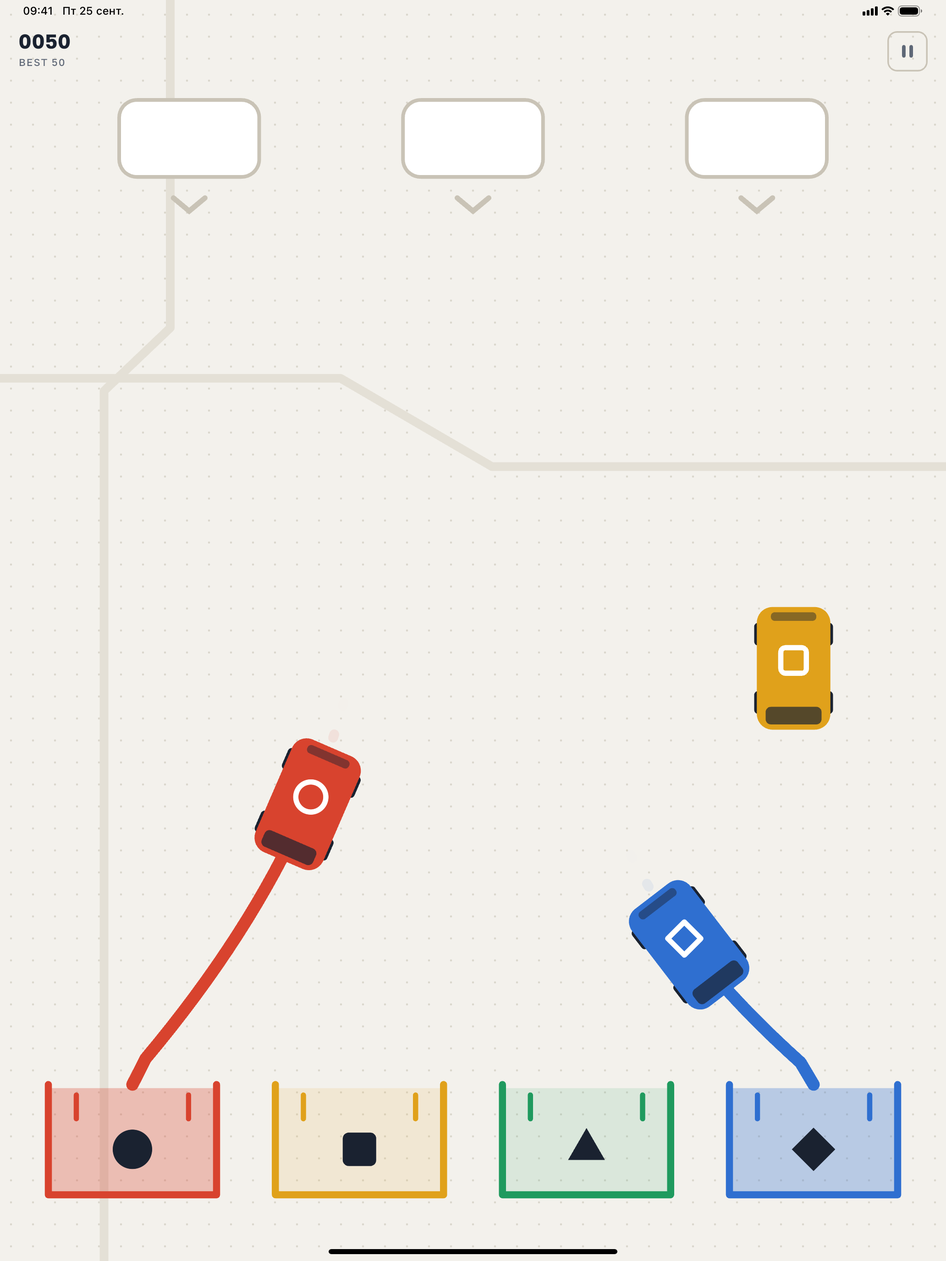
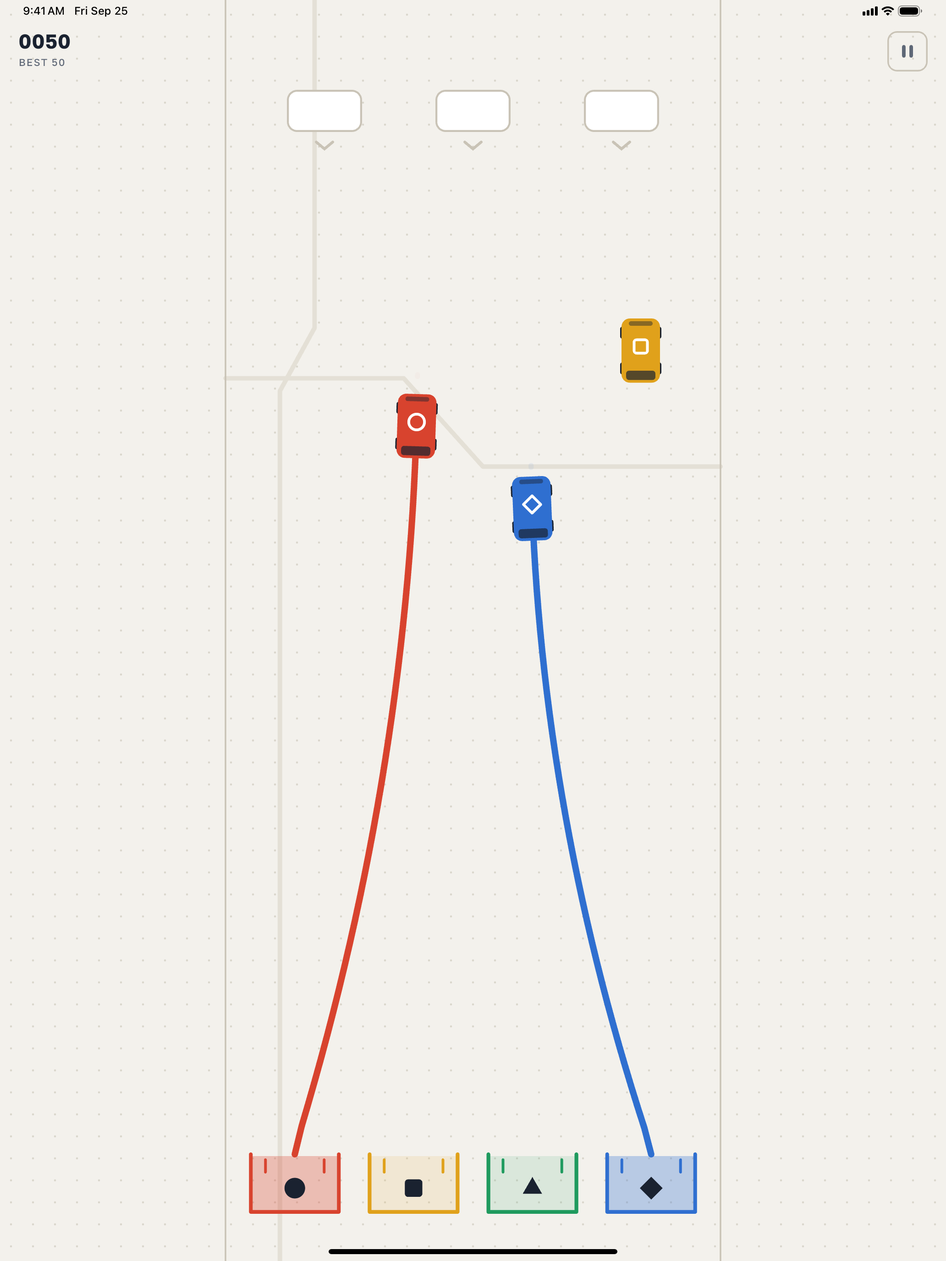
[NO-ISSUE]: Tablet column layout for the field
Zoom is capped at GameTuning.maxZoom (1.5 px per unit): phones keep the
full-width field, tablets get a 540 px column centred in the widget with
phone-sized units and faint column edges drawn by DecorLayer. Public
toField/toCanvas handle the offset; drag callbacks, the smoke test and
the screenshot stager use them. Unit tests for phone and tablet mapping.
iPad store screenshots retaken with the column and an English simulator.

diff --git a/features/lib/game/engine/line_duty_game.dart b/features/lib/game/engine/line_duty_game.dart
@@ -107,7 +107,26 @@ class LineDutyGame extends FlameGame with DragCallbacks {
 
   double get fieldHeight => size.y / _zoom;
 
-  double get _zoom => size.x / AppDimens.fieldWidth;
+  /// Логических px виджета на единицу поля. На телефонах поле занимает всю
+  /// ширину; на планшетах зум упирается в [GameTuning.maxZoom], поле
+  /// становится колонкой по центру (см. [fieldOffset]), а фигуры остаются
+  /// телефонного размера.
+  double get _zoom =>
+      math.min(size.x / AppDimens.fieldWidth, GameTuning.maxZoom);
+
+  /// Сдвиг поля от левого края виджета в единицах поля (0 на телефонах).
+  double get fieldOffset => (size.x / _zoom - fieldWidth) / 2;
+
+  /// Поле уже виджета — колонка по центру, края поля стоит показать.
+  bool get columnMode => fieldOffset > 0.5;
+
+  /// Точка виджета (логические px) → единицы поля.
+  Vector2 toField(Vector2 canvasPosition) =>
+      Vector2(canvasPosition.x / _zoom - fieldOffset, canvasPosition.y / _zoom);
+
+  /// Единицы поля → точка виджета (логические px).
+  Vector2 toCanvas(Vector2 fieldPosition) =>
+      Vector2((fieldPosition.x + fieldOffset) * _zoom, fieldPosition.y * _zoom);
 
   bool get frozen => crashPoint != null;
 
@@ -140,7 +159,7 @@ class LineDutyGame extends FlameGame with DragCallbacks {
   @override
   Future<void> onLoad() async {
     camera.viewfinder.anchor = Anchor.topLeft;
-    camera.viewfinder.position = Vector2.zero();
+    _placeCamera();
     world.add(DecorLayer());
     world.add(RouteLayer());
     world.add(OverlayLayer());
@@ -248,8 +267,15 @@ class LineDutyGame extends FlameGame with DragCallbacks {
   @override
   void onGameResize(Vector2 size) {
     super.onGameResize(size);
-    camera.viewfinder.zoom = _zoom;
+    _placeCamera();
     _layout();
+  }
+
+  /// Камера смотрит на поле из левого верхнего угла; в колонке точка (0, 0)
+  /// поля сдвинута вправо на [fieldOffset].
+  void _placeCamera() {
+    camera.viewfinder.zoom = _zoom;
+    camera.viewfinder.position = Vector2(-fieldOffset, 0);
   }
 
   /// Отступы сверху (HUD + safe area) и снизу (жест-бар) в логических
@@ -599,8 +625,6 @@ class LineDutyGame extends FlameGame with DragCallbacks {
 
   // --- Рисование маршрута ------------------------------------------------
 
-  Vector2 _toField(Vector2 canvasPosition) => canvasPosition / _zoom;
-
   UnitComponent? _pick(Vector2 p) {
     UnitComponent? best;
     double bestD = GameTuning.pickRadius;
@@ -617,7 +641,7 @@ class LineDutyGame extends FlameGame with DragCallbacks {
   @override
   void onDragStart(DragStartEvent event) {
     super.onDragStart(event);
-    routeStart(_toField(event.canvasPosition));
+    routeStart(toField(event.canvasPosition));
   }
 
   @override
@@ -625,7 +649,7 @@ class LineDutyGame extends FlameGame with DragCallbacks {
     super.onDragUpdate(event);
     // Именно start: Flame считает `canvasEndPosition` как позицию + дельту,
     // то есть на шаг впереди настоящего пальца.
-    routeMove(_toField(event.canvasStartPosition));
+    routeMove(toField(event.canvasStartPosition));
   }
 
   @override

diff --git a/features/test/game/line_duty_game_test.dart b/features/test/game/line_duty_game_test.dart
@@ -545,4 +545,26 @@ void main() {
       expect(u.docked?.color, u.color, reason: 'demo routes are docked');
     }
   });
+  group('tablet column', () {
+    test('phone width keeps the full-width field', () {
+      final LineDutyGame g = LineDutyGame()..onGameResize(Vector2(400, 860));
+      expect(g.fieldOffset, 0);
+      expect(g.columnMode, isFalse);
+      expect(g.toField(Vector2(400, 0)).x, closeTo(AppDimens.fieldWidth, 1e-6));
+    });
+
+    test('tablet caps the zoom and centres the field', () {
+      final LineDutyGame g = LineDutyGame()..onGameResize(Vector2(1024, 1366));
+      expect(g.columnMode, isTrue);
+      expect(g.fieldHeight, closeTo(1366 / GameTuning.maxZoom, 1e-6));
+      final double margin =
+          (1024 - AppDimens.fieldWidth * GameTuning.maxZoom) / 2;
+      expect(g.toCanvas(Vector2.zero()).x, closeTo(margin, 1e-6));
+      expect(g.toField(Vector2(512, 100)).x,
+          closeTo(AppDimens.fieldWidth / 2, 1e-6));
+      final Vector2 p = Vector2(123, 456);
+      expect(g.toField(g.toCanvas(p)).x, closeTo(p.x, 1e-6));
+      expect(g.toField(g.toCanvas(p)).y, closeTo(p.y, 1e-6));
+    });
+  });
 }

diff --git a/integration_test/game_smoke_test.dart b/integration_test/game_smoke_test.dart
@@ -81,10 +81,14 @@ void main() {
     debugPrint(
         'SMOKE unit ${unit.color} at ${unit.position}, gate at ${gate.position}');
 
-    // Drag from the unit straight to its gate (screen = field × zoom).
+    // Drag from the unit straight to its gate (field → widget via the game,
+    // so the tablet column offset is honoured too).
     final Rect canvas = tester.getRect(find.byType(GameWidget<LineDutyGame>));
-    final double zoom = canvas.width / AppDimens.fieldWidth;
-    Offset toScreen(Vector2 p) => canvas.topLeft + Offset(p.x, p.y) * zoom;
+    Offset toScreen(Vector2 p) {
+      final Vector2 c = game.toCanvas(p);
+      return canvas.topLeft + Offset(c.x, c.y);
+    }
+
     final Vector2 target = gate.position - Vector2(0, gate.size.y);
     final TestGesture gesture =
         await tester.startGesture(toScreen(unit.position));

diff --git a/features/lib/game/engine/field_layers.dart b/features/lib/game/engine/field_layers.dart
@@ -22,6 +22,19 @@ class DecorLayer extends Component with HasGameReference<LineDutyGame> {
       Size(game.fieldWidth, game.fieldHeight),
       time: game.time,
     );
+    if (game.columnMode) _renderEdges(canvas);
+  }
+
+  /// На планшете поле — колонка по центру: тонкие края, чтобы разворот
+  /// фигуры у невидимой границы не выглядел случайным.
+  void _renderEdges(Canvas canvas) {
+    final Paint paint = Paint()
+      ..color = AppColors.stroke
+      ..strokeWidth = 1.2
+      ..style = PaintingStyle.stroke;
+    canvas.drawLine(Offset.zero, Offset(0, game.fieldHeight), paint);
+    canvas.drawLine(Offset(game.fieldWidth, 0),
+        Offset(game.fieldWidth, game.fieldHeight), paint);
   }
 }
 

diff --git a/features/lib/game/engine/game_tuning.dart b/features/lib/game/engine/game_tuning.dart
@@ -22,6 +22,11 @@ abstract final class GameTuning {
   /// Больше фигур на поле одновременно не появляется.
   static const int maxUnits = 8;
 
+  /// Потолок зума (логических px на единицу поля). Телефоны (≤ 440 px
+  /// ширины → зум ≤ 1.22) не упираются; на планшетах поле становится
+  /// колонкой 540 px по центру, фигуры остаются телефонного размера.
+  static const double maxZoom = 1.5;
+
   /// Спавн ждёт, пока под спавном не станет свободно (по вертикали).
   static const double spawnClearance = 70;
 

diff --git a/CLAUDE.md b/CLAUDE.md
@@ -106,7 +106,7 @@ flutter test integration_test/game_smoke_test.dart -d <deviceId> --flavor dev --
 - Иконки приложения: исходник — `store/icon_rounded_1024.png` (настоящая иконка от дизайнера, 2026-09-22; скруглённая, прозрачные углы, фон `0D131E`), из него `appstore_icon_1024.png` (`script/make_flat_icon.swift … 0D131E`, без альфы), `android_adaptive_foreground_1024.png` (`script/make_adaptive_foreground.swift`), `playstore_icon_512.png`; наборы iOS `AppIcon` / `AppIcon-Dev` (`sips -z` из плоской 1024), Android mipmap (`ic_launcher` из скруглённой, `ic_launcher_foreground` из adaptive-переднего слоя) + `mipmap-anydpi-v26/ic_launcher.xml` (фон — сплошной `0D131E`), dev-вариант с плашкой в `android/app/src/dev/res` (`script/gen_dev_icons.sh`), экран запуска — `script/gen_launch_images.sh`. **Ловушка:** цвета PNG проверять по байтам (например, `python3` с `zlib`), а не через `NSImage`/`sips`/`colorAt` — они сдвигают значения через цветовой профиль.
 
 ## Движок (`features/lib/game/engine/`)
-- `LineDutyGame extends FlameGame with DragCallbacks`. Координаты поля — логические единицы: ширина `AppDimens.fieldWidth` = 360 (1 ед. = 3 px холста спеки), высота от пропорции виджета; камера в левом верхнем углу с зумом `ширина виджета / 360`, входные точки делятся на зум. Фон движка прозрачный — фон и сетку рисует `AppScaffold`; декор темы — `DecorLayer` (priority −20) через `game.skin.paintDecor`. `game.skin` — скин текущей палитры (мемоизация по `AppColors.current.id`); `UnitComponent`/`GateComponent`/`SpawnerComponent` в `render` зовут скин (фигура: `headingAngle` = atan2 heading, сам компонент не вращается, хитбокс 32 остаётся).
+- `LineDutyGame extends FlameGame with DragCallbacks`. Координаты поля — логические единицы: ширина `AppDimens.fieldWidth` = 360 (1 ед. = 3 px холста спеки), высота от пропорции виджета; зум = `min(ширина виджета / 360, GameTuning.maxZoom = 1.5)` — на телефонах поле во всю ширину, на планшетах колонка 540 px по центру (`fieldOffset`, `columnMode`; `DecorLayer` рисует края колонки), фигуры телефонного размера. Координаты виджет ↔ поле — `toField` / `toCanvas` (тесты и постановщик скриншотов тоже через них). Фон движка прозрачный — фон и сетку рисует `AppScaffold`; декор темы — `DecorLayer` (priority −20) через `game.skin.paintDecor`. `game.skin` — скин текущей палитры (мемоизация по `AppColors.current.id`); `UnitComponent`/`GateComponent`/`SpawnerComponent` в `render` зовут скин (фигура: `headingAngle` = atan2 heading, сам компонент не вращается, хитбокс 32 остаётся).
 - **Все числа геймплея — в `game_tuning.dart`** (`GameTuning`): скорость 38 → 74 ед/с и интервал спавна 3.2 → 1.25 с растут с числом доведённых фигур (потолок на 45), не больше 8 фигур, захват пальцем 26 ед., столкновение — по **капсульным хитбоксам скина** (`FieldSkin.hitbox`, `HitCapsule` в `hit_capsule.dart`: отрезок вдоль `heading` + радиус; Метро — круг Ø `crashDistance` = 0.92 стороны, автобус/муравей/рыбка — вытянутые), зазор < 0 = столкновение, < `warnGap` (24.6) = кольцо «!» между ближайшими точками осей; подбор пикапа — по зазору капсулы до точки; захват пальцем/края/ворота — по базовому кругу 32, вспышка 0.7 с, «Продолжить» чистит радиус 90.
 - Отступы: форма отдаёт `setInsets(top: safeArea + HUD 64, bottom: safeArea + 8)` в логических px; в единицы поля переводятся в `_layout()` при первом размере (до него `size` у игры нет — ловушка Flame). Спавны (3, доли 0.2/0.5/0.8) на `spawnRowOffset` ниже верхнего отступа, ворота (4, в порядке `LaneColor.values`) на `gateRowOffset` выше нижнего.
 - Фигура (`UnitComponent`): едет по `heading` (по умолчанию вниз); маршрут — список точек, съедается по мере движения, съеденные точки идут в `trace` (пунктир 30 %, гаснет за `traceSeconds`); **за концом маршрута поворачивает вниз** (маршрут — временное отклонение), без маршрута над своими воротами `_magnet` доворачивает к центру входа (`gateMagnetSlack/Speed`); боковой/верхний край разворачивает вниз и стирает маршрут. Новый жест по фигуре стирает старый маршрут (`beginRoute`) и ведёт её живьём, пока палец идёт. Логика жеста — `routeStart / routeMove / routeEnd` (drag-колбэки только переводят координаты — из `canvasStartPosition`, потому что `canvasEndPosition` у Flame = позиция + дельта, на шаг впереди пальца; тесты зовут методы напрямую). **Стыковка:** палец над своими воротами (или выше кромки на `gateDockMargin`) зовёт `UnitComponent.dockTo` — маршрут заканчивается входом в ворота (X пальца, зажатый внутрь ворот на радиус фигуры; Y — верхняя кромка), `docked` = ворота, жест закрывается сам; ворота с живым пристыкованным маршрутом подсвечены (`GateComponent.armed`, ставит `_armGates()` каждый кадр). Чужие ворота не стыкуют. Демо стыкует через тот же `dockTo`. Отладка хитбоксов и форм баз: `cd features && flutter test test/tools/render_hitboxes_test.dart` → `build/hitboxes/<skin>.png`.

diff --git a/.claude/my_docs/STORE_LISTINGS.md b/.claude/my_docs/STORE_LISTINGS.md
@@ -431,11 +431,11 @@ Contact: fyodorov.software@gmail.com.
 | Папка | Устройство | Размер | Статус |
 |---|---|---|---|
 | `store/screenshots/iphone69/en-US/01–06.png` | iPhone 17 Pro Max | 1320×2868 | готово |
-| `store/screenshots/ipad13/en-US/01–06.png` | iPad Pro 13" (M4) | 2064×2752 | снято, **но см. вопрос про iPad ниже**; в статус-баре дата на языке симулятора («Пт 25 сент.») — перед финальной съёмкой переключить язык симулятора на английский (`xcrun simctl spawn <udid> defaults write .GlobalPreferences AppleLanguages -array en` и перезагрузить) |
+| `store/screenshots/ipad13/en-US/01–06.png` | iPad Pro 13" (M4) | 2064×2752 | готово (колонка по центру). Язык симулятора — английский, иначе дата в статус-баре на русском: `xcrun simctl spawn <udid> defaults write .GlobalPreferences AppleLanguages -array en`, затем перезагрузить симулятор |
 | `store/screenshots/play/en-US/01–06.png` | обрезка iPhone-кадров до 9:16 (`sips --cropToHeightWidth 2347 1320`) | 1320×2347 | готово |
 | `store/play_feature_graphic_1024x500.png` | `swift script/make_feature_graphic.swift store/icon_rounded_1024.png <out>` | 1024×500 | готово |
 
-**Открытый вопрос — iPad.** Сборка объявляет iPad (`TARGETED_DEVICE_FAMILY = 1,2`), но поле растягивается на всю ширину 4:3: фигуры и ворота огромные, путь от спавна до ворот вдвое короче, чем на телефоне, — играется иначе. Варианты: (а) на 1.0 оставить только iPhone (`TARGETED_DEVICE_FAMILY = 1` во всех конфигурациях, iPad-скриншоты тогда не нужны); (б) сделать колонку по центру с ограниченной шириной (как у WasDrop) и переснять iPad. Рекомендация — (а) для 1.0, (б) в 1.1.
+**iPad.** С 2026-09-25 поле на планшете — колонка 540 px по центру (`GameTuning.maxZoom`), фигуры телефонного размера; iPad-скриншоты пересняты с этой раскладкой и с английским языком симулятора.
 
 Локали без своих скриншотов в App Store Connect берут кадры основной локали (en-US). Если снимать ru/ja: `script/store_shots.sh <udid> store/screenshots/iphone69/ru-RU ru`.
 

diff --git a/.claude/changelog/CHANGELOG.md b/.claude/changelog/CHANGELOG.md
@@ -13,6 +13,7 @@ On release, rename `[Unreleased]` to `[X.Y.Z] — YYYY-MM-DD` and start a fresh 
 
 **Что нового:**
 
+- Изменено: на iPad поле больше не растягивается на весь экран — игра идёт в колонке по центру, фигуры и ворота того же размера, что на телефоне
 - Новое: пять языков интерфейса — Deutsch, Español, Français, Português (Brasil), 日本語; выбор в настройках, по умолчанию язык устройства
 - Новое: игра «Диспетчер» — фигуры четырёх цветов выезжают сверху, рисуй им пальцем маршруты до ворот своего цвета; маршрут стирается за фигурой, красное кольцо предупреждает о сближении, касание двух фигур или чужие ворота — конец забега
 - Новое: меню с живым демо-полем, счёт и рекорд в игре, пауза (звук, вибрация), экран проигрыша с бейджем «Новый рекорд» и одним бесплатным продолжением
@@ -35,6 +36,7 @@ On release, rename `[Unreleased]` to `[X.Y.Z] — YYYY-MM-DD` and start a fresh 
 
 **What's new:**
 
+- Changed: on iPad the field no longer stretches across the whole screen — the game runs in a centred column with units and gates the same size as on a phone
 - New: five more interface languages — Deutsch, Español, Français, Português (Brasil), 日本語; pick one in Settings, the device language is used by default
 - New: the dispatcher game — units of four colours roll in from the top, draw their routes with a finger to the gate of their colour; the route erases behind the unit, a red ring warns of a near miss, two units touching or a wrong gate ends the run
 - New: menu with a live demo field, score and best in game, pause (sound, vibration), game-over screen with a "New record" badge and one free continue

diff --git a/.claude/plans/plan.md b/.claude/plans/plan.md
@@ -67,7 +67,7 @@
 - [ ] Монетизация: реклама за продолжение (`AppConfig.monetizationEnabled`), премиум без рекламы
 - [x] Политика конфиденциальности (2026-09-25): страницы en/ru для pyf.app в `my_docs/landing/line-duty/`, ссылка в `AppConstants` и строка в настройках
 - [x] Тексты App Store / Google Play на 7 языках, Notes for Review, «Что нового», feature graphic, скриншоты iPhone 6.9" / iPad 13" / Play (en-US) — `.claude/my_docs/STORE_LISTINGS.md` (2026-09-25)
-- [ ] Решить про iPad на 1.0: только iPhone (`TARGETED_DEVICE_FAMILY = 1`) или колонка по центру + пересъёмка iPad (STORE_LISTINGS.md § 6)
+- [x] iPad: поле колонкой по центру (`GameTuning.maxZoom` 1.5, `fieldOffset`, края колонки), iPad-скриншоты пересняты (2026-09-25)
 - [ ] Заполнить App Store Connect и завести Google Play по чеклисту STORE_LISTINGS.md § 7; Apple ID приложения → `AppConstants.appStoreId` («Оценить»)
 - [ ] Переводы de / fr / hu / ja (по образцу WasDrop)
 
